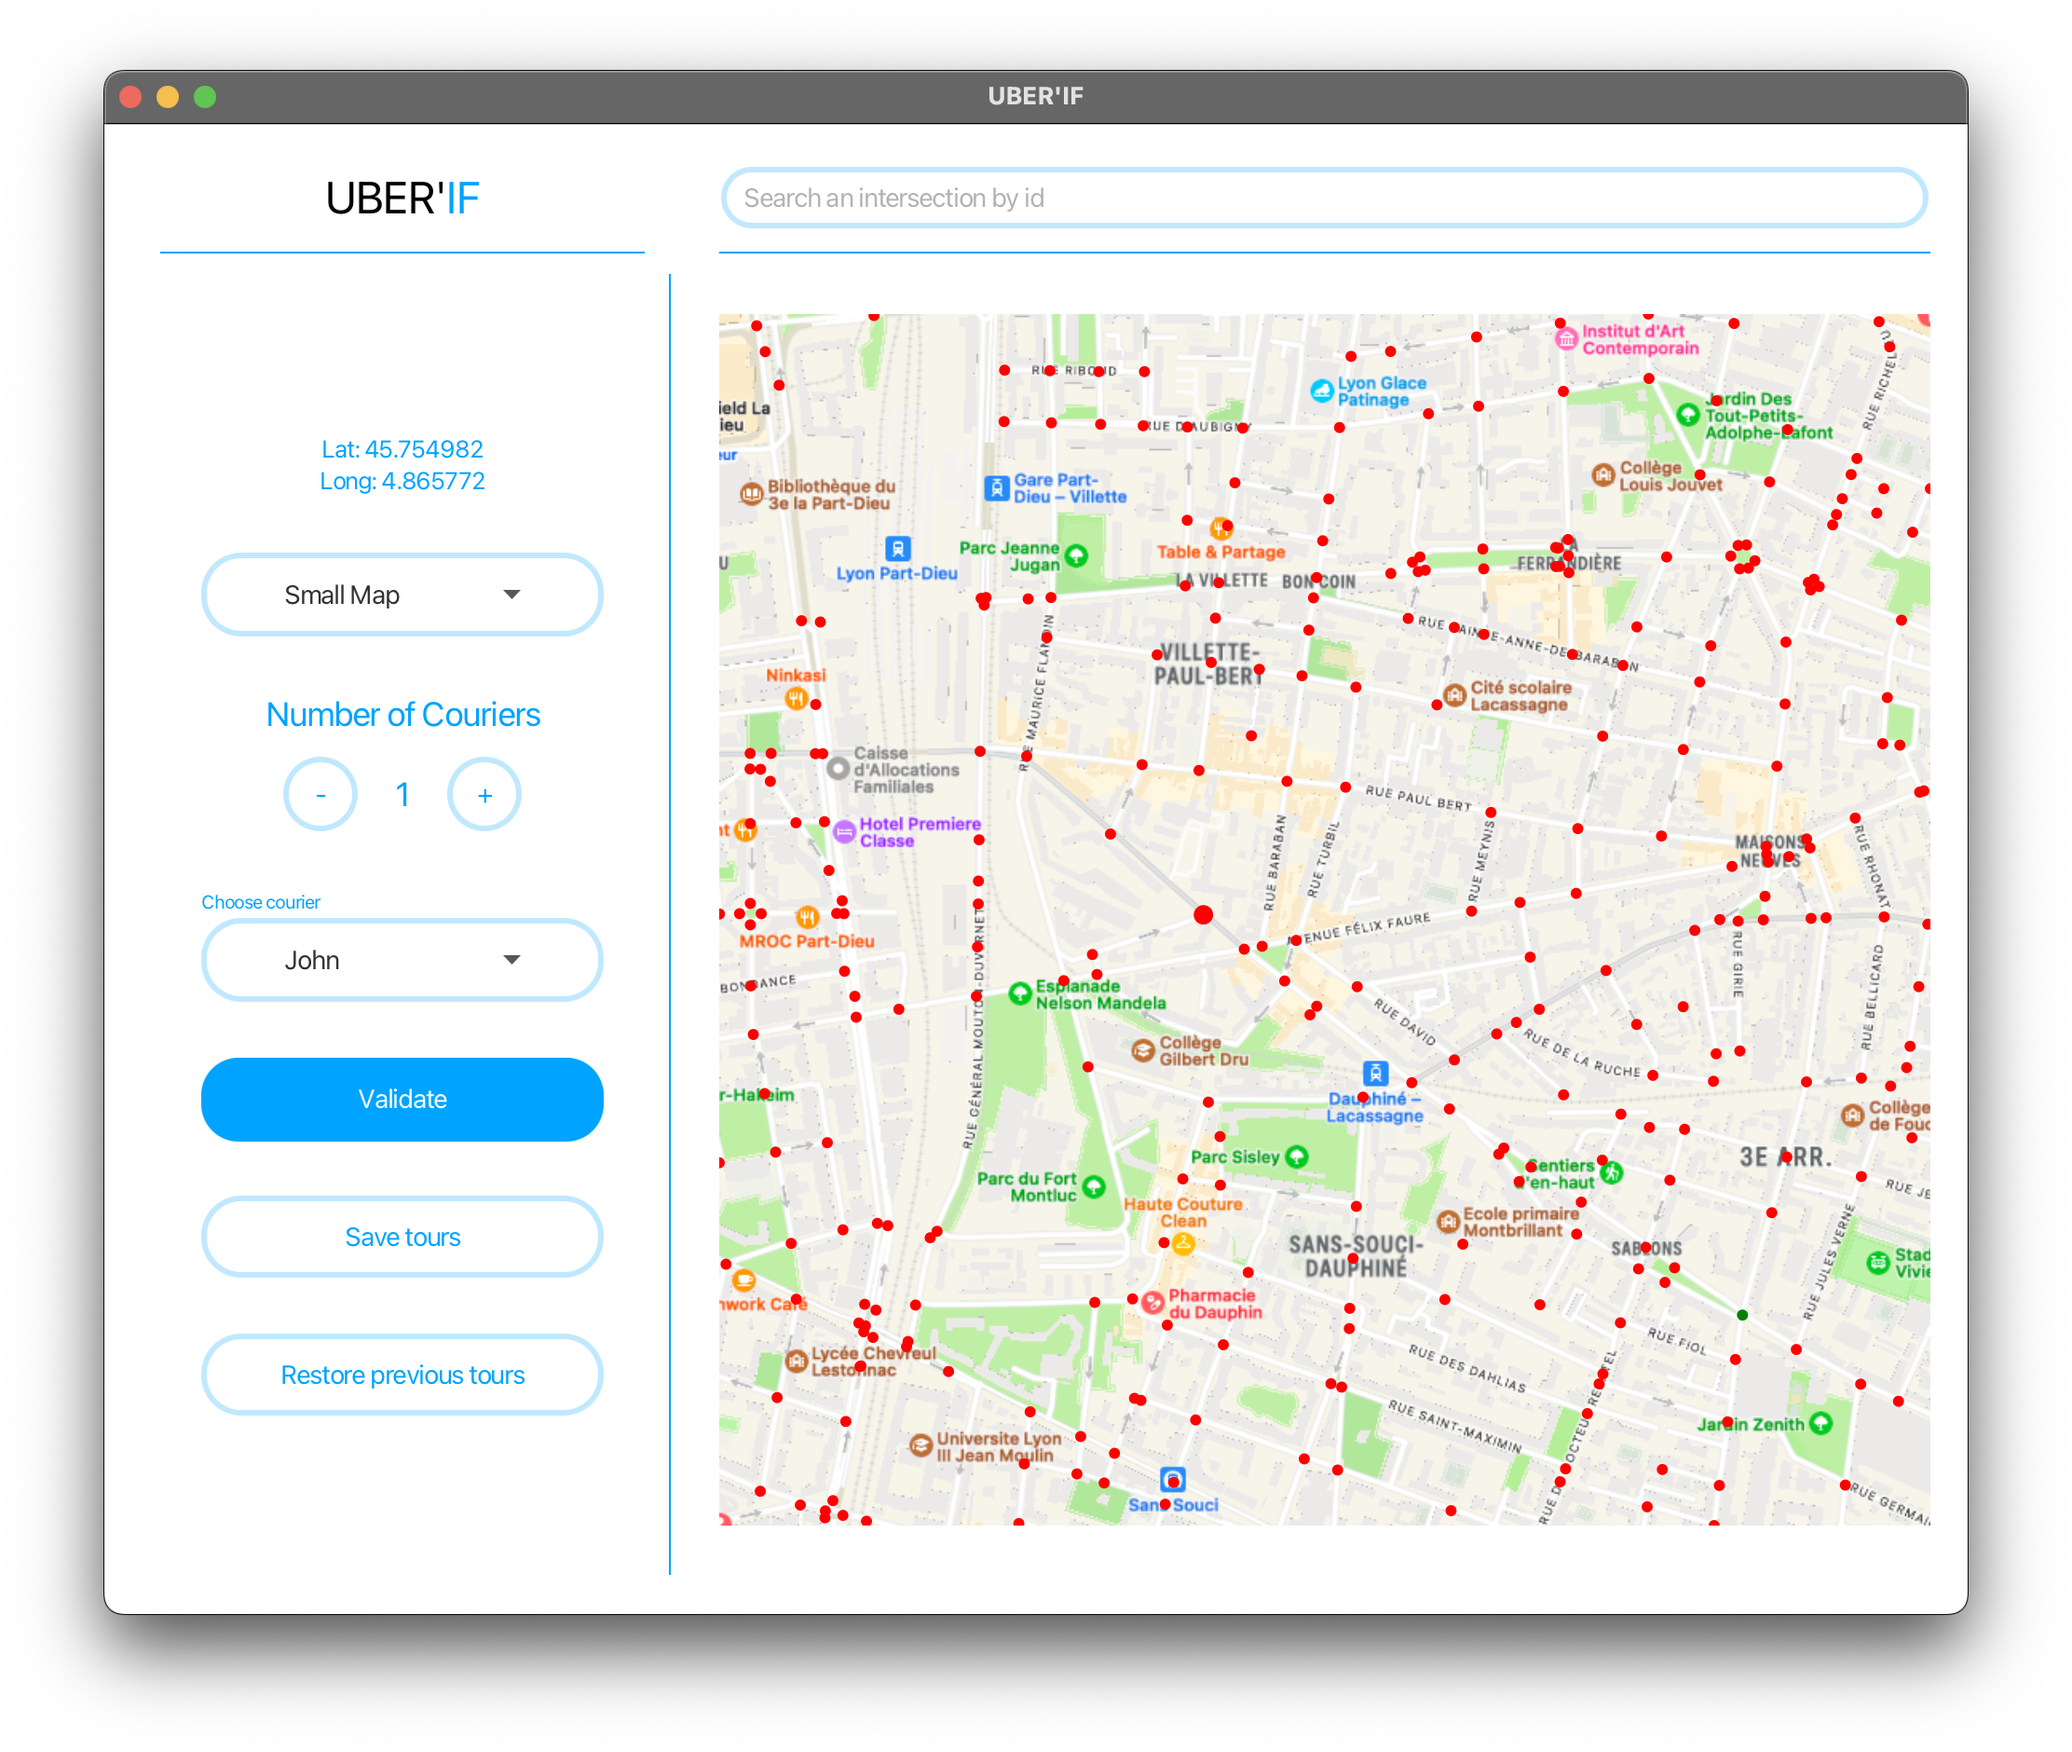
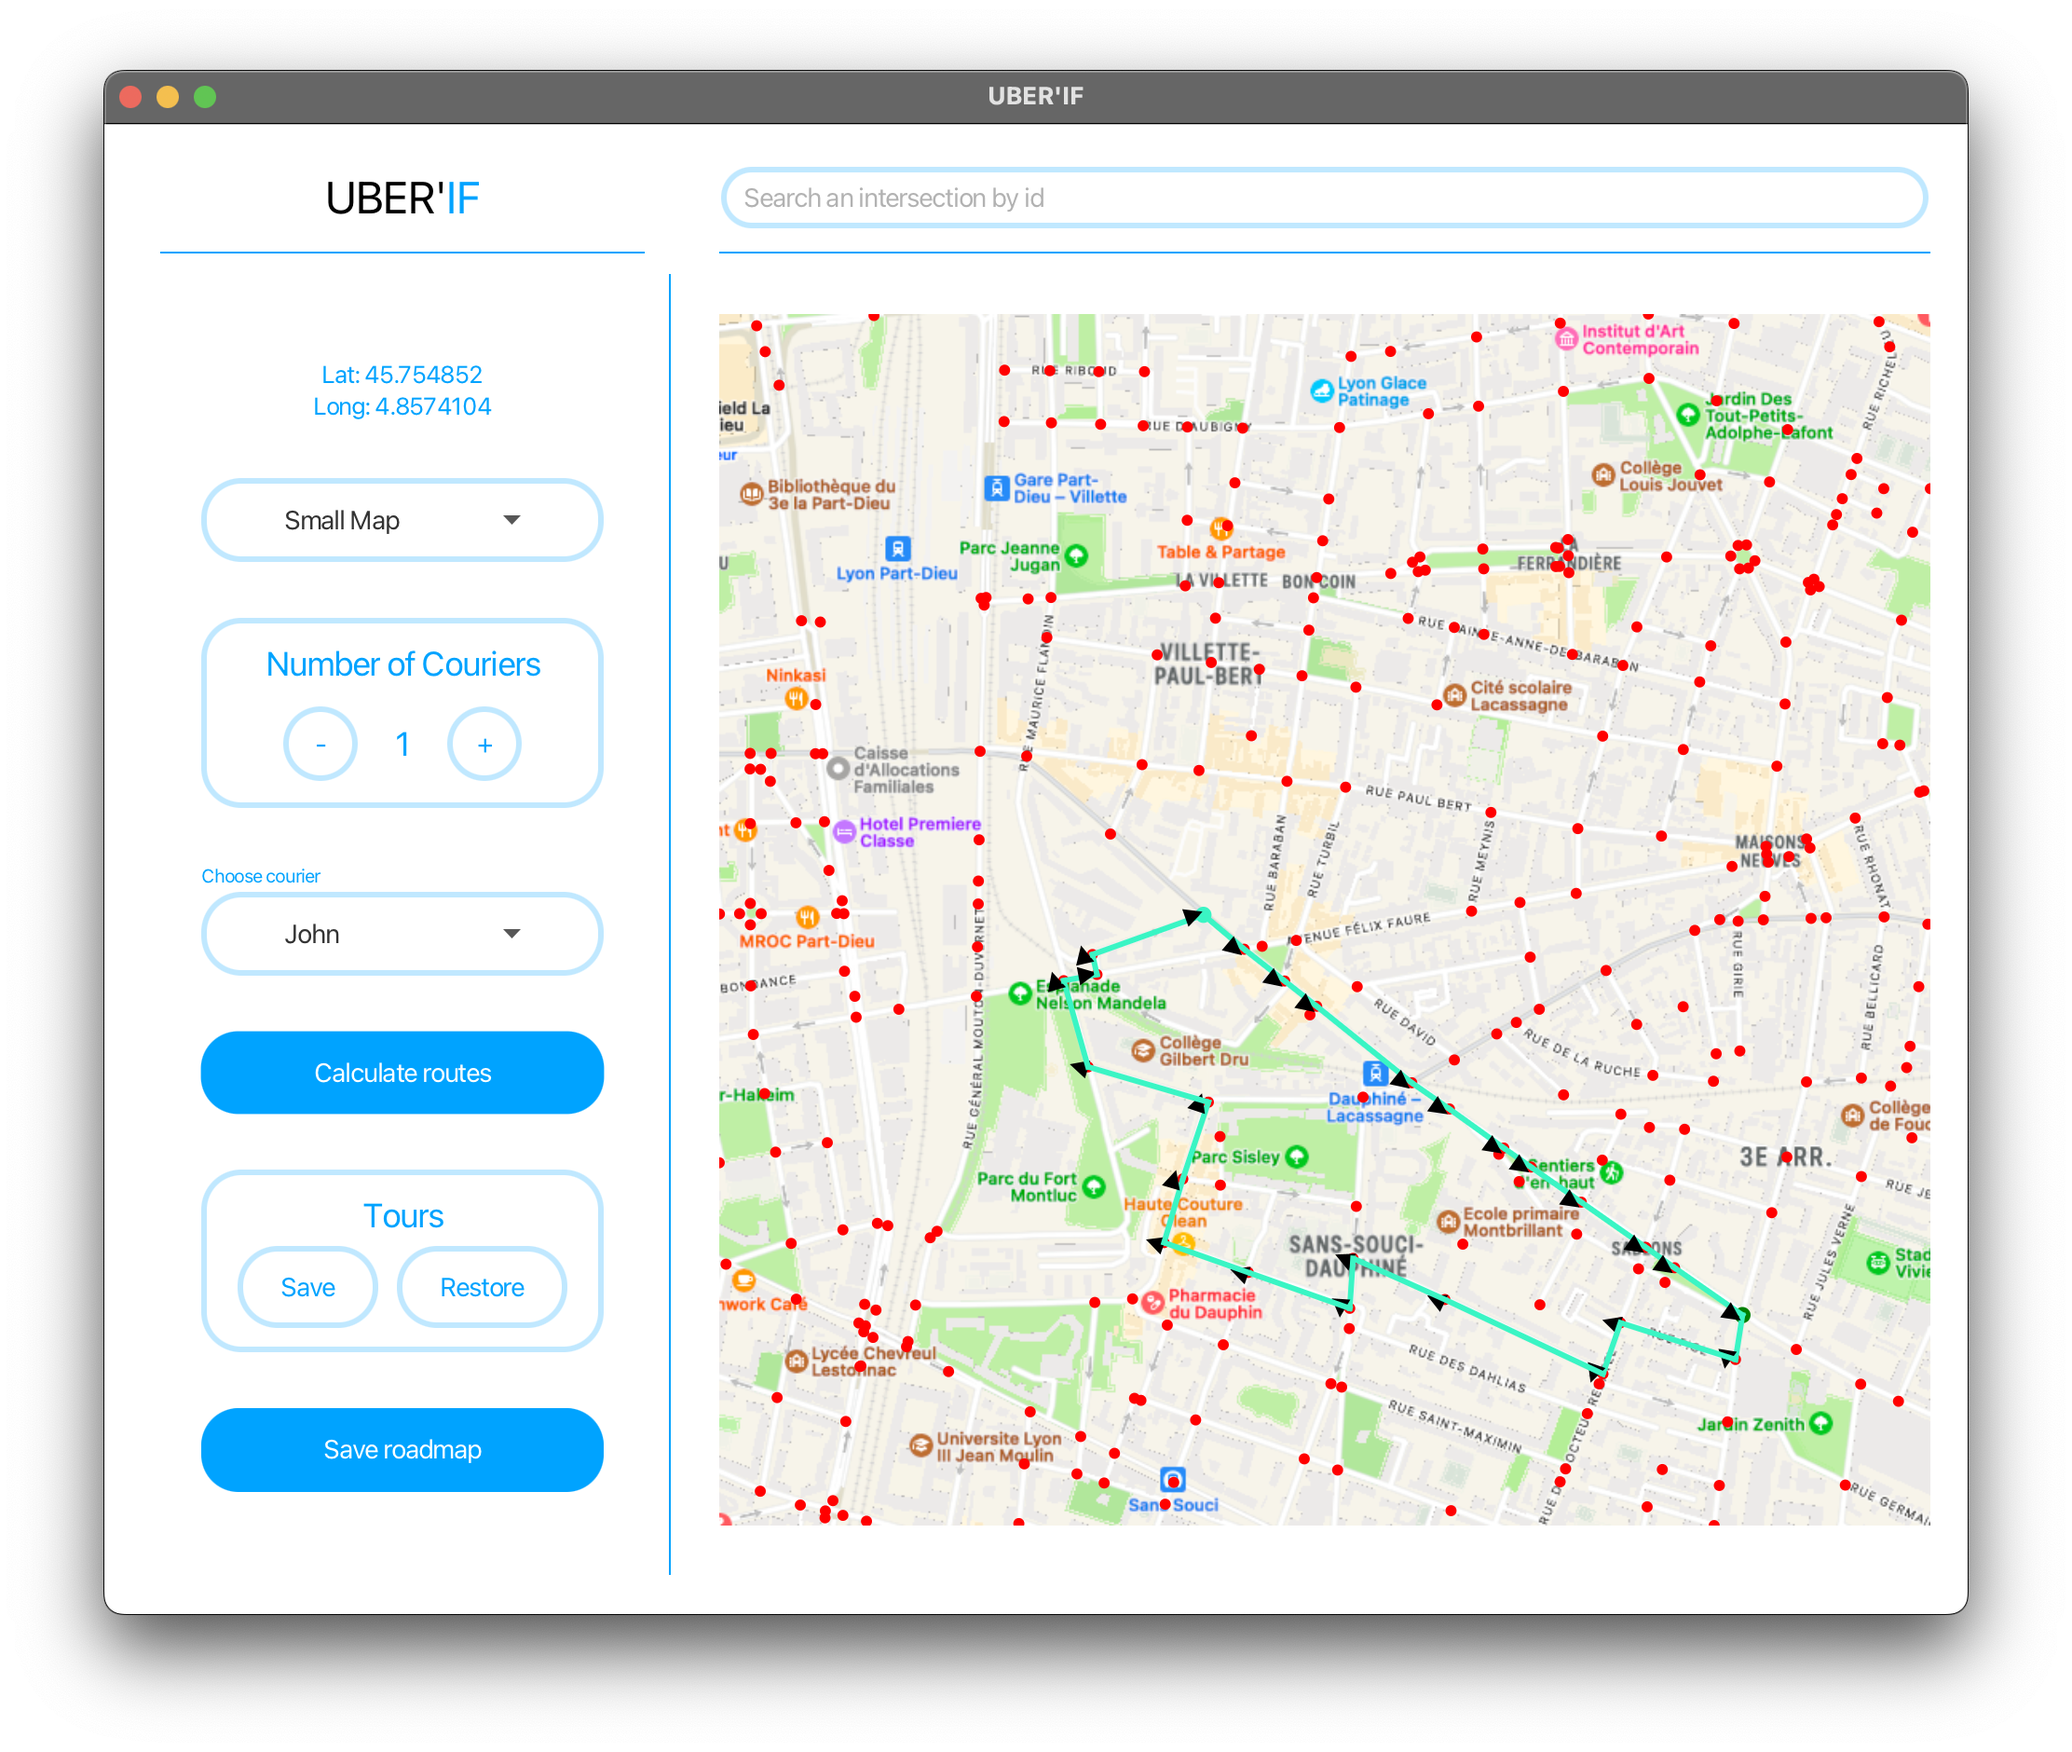
fix user manual + report

diff --git a/Files/UserManual.md b/Files/UserManual.md
@@ -4,6 +4,8 @@
 
 To run the application, the user only has to build compile, and run the .jar directory.
 
+**ATTENTION: YOU WILL NEED JAVA 19 FOR THIS APPLICATION** 
+
 ## OverView of the application
 
 This is what our application looks like when the user (the manager) runs the application.
@@ -41,19 +43,25 @@ The manager can select a courier in the dropdown list. After that, the intersect
 
 ### Compute a delivery tour
 
-By clicking on the Validate button, the manager starts the computing process which will determine the best tour for the selected courier.
+By clicking on the Calculate Routes button, the manager starts the computing process which will determine the best tour for the selected courier.
 
 If there's no tour possible for the chosen intersections at the given time windows, a pop-up window will tell the user about it.
 
-Otherwise, the tour is displayed on the map, in the same colour as the one of the selected courier. A PDF file for the couriers, containing the directions, departure and arrival time (one page for each courier) is generated in resources > output.
+Otherwise, the tour is displayed on the map, in the same colour as the one of the selected courier.
 
 ### Saving tours to a file
 
-When clicking on the Save Tours button, the manager will have to enter the name of the file in which they want the current computed tours to be saved.
+When clicking on the Save button, the manager will have to select where they want to save the file, and then enter the name of the file (*without the extension*) in which they want the current computed tours to be saved.
+
+This will generate a .uberif file.
 
 ### Restoring tours from a file
 
-When clicking on the Restore Previous Tour button, the manager will have to enter the name of the file from which they want the tours to be restored. After that, the tours will be displayed on the map.
+When clicking on the Restore button, the manager will have to select the file from which they want the tours to be restored. After that, the tours will be displayed on the map.
+
+### Saving the roadmap of the couriers in a PDF file
+
+When clicking on the Save Roadmap button, a PDF file for the couriers, containing the directions, departure and arrival time (one page for each courier) is generated in resources > output.
 
 ### Choice of an intersection
 

diff --git a/Files/Report.md b/Files/Report.md
@@ -34,7 +34,8 @@ University: INSA Lyon
 8. [Why JUNIT?](#8-why-junit)
 9. [Discussion on Social and Environmental Issues related to the application](#9-discussion-on-social-and-environmental-issues-related-to-the-application)
 10. [Technical and Human Review](#10-technical-and-human-review)
-11. [Glossary](#11-glossary)
+11. [Possible Improvements](#11-possible-improvements)
+12. [Glossary](#12-glossary)
 
 ## 1. Introduction
 This report documents the Agile development process of the PLD Agile project. The project’s goal is to develop an application for optimizing delivery tours in urban settings using bicycles. Embracing Agile and SCRUM methodologies, the focus is on iterative development, robust team collaboration, and high adaptability.
@@ -343,8 +344,13 @@ Team member satisfaction, with a mean score of 8, reflected a positive atmospher
 
 Agile practices allowed team members to focus on their favourite areas of interest or desired learning.
 
+## 11. Possible improvements
 
-## 11. Glossary
+We could have improved our application by using SOLID principles. For instance, we should have done 1 class for 1 responsibility. What's more, we should have injected dependencies so that high-level modules didn't depend on low-level modules. Both should depend on abstractions.
+
+Also, our restoring of tours is not optimized at all. It doesn't display the previous tours as we would have liked.
+
+## 12. Glossary
 
 - **_Application_**: The software system designed for optimizing delivery tours in cities using bicycles.
 - **_City Map_**: A digital representation of a city's layout, including intersections and road segments, used for planning delivery tours.
